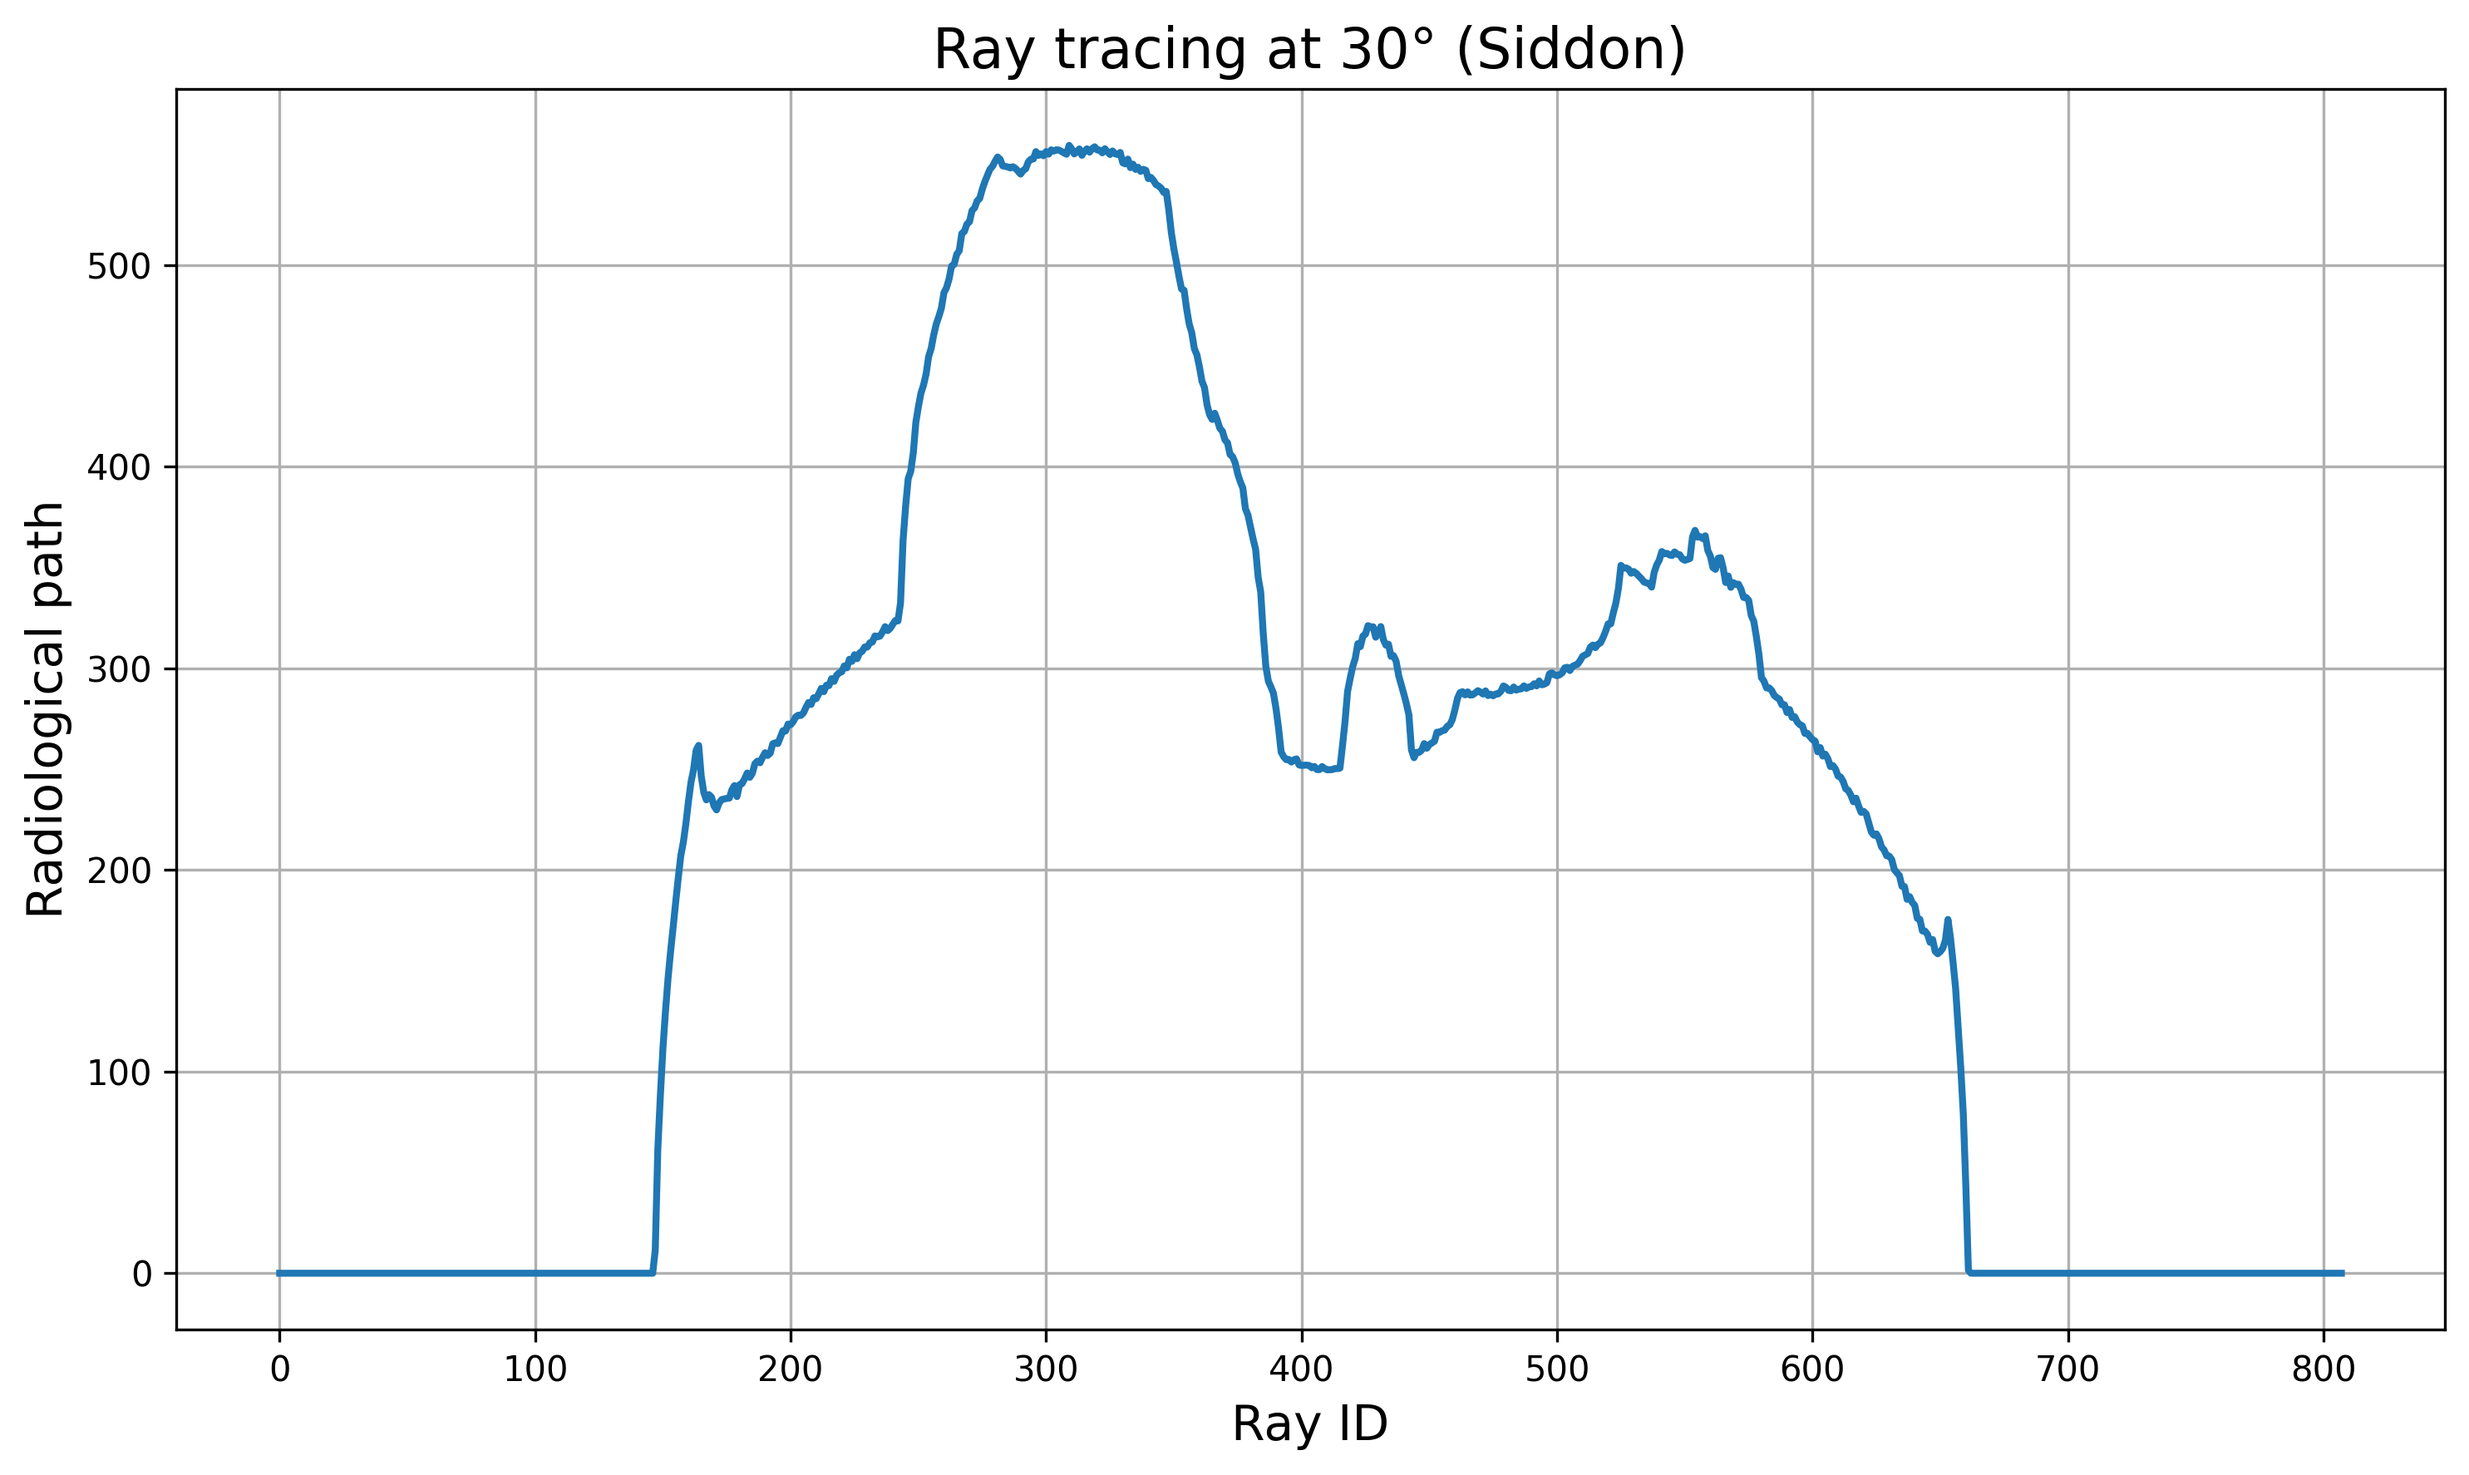
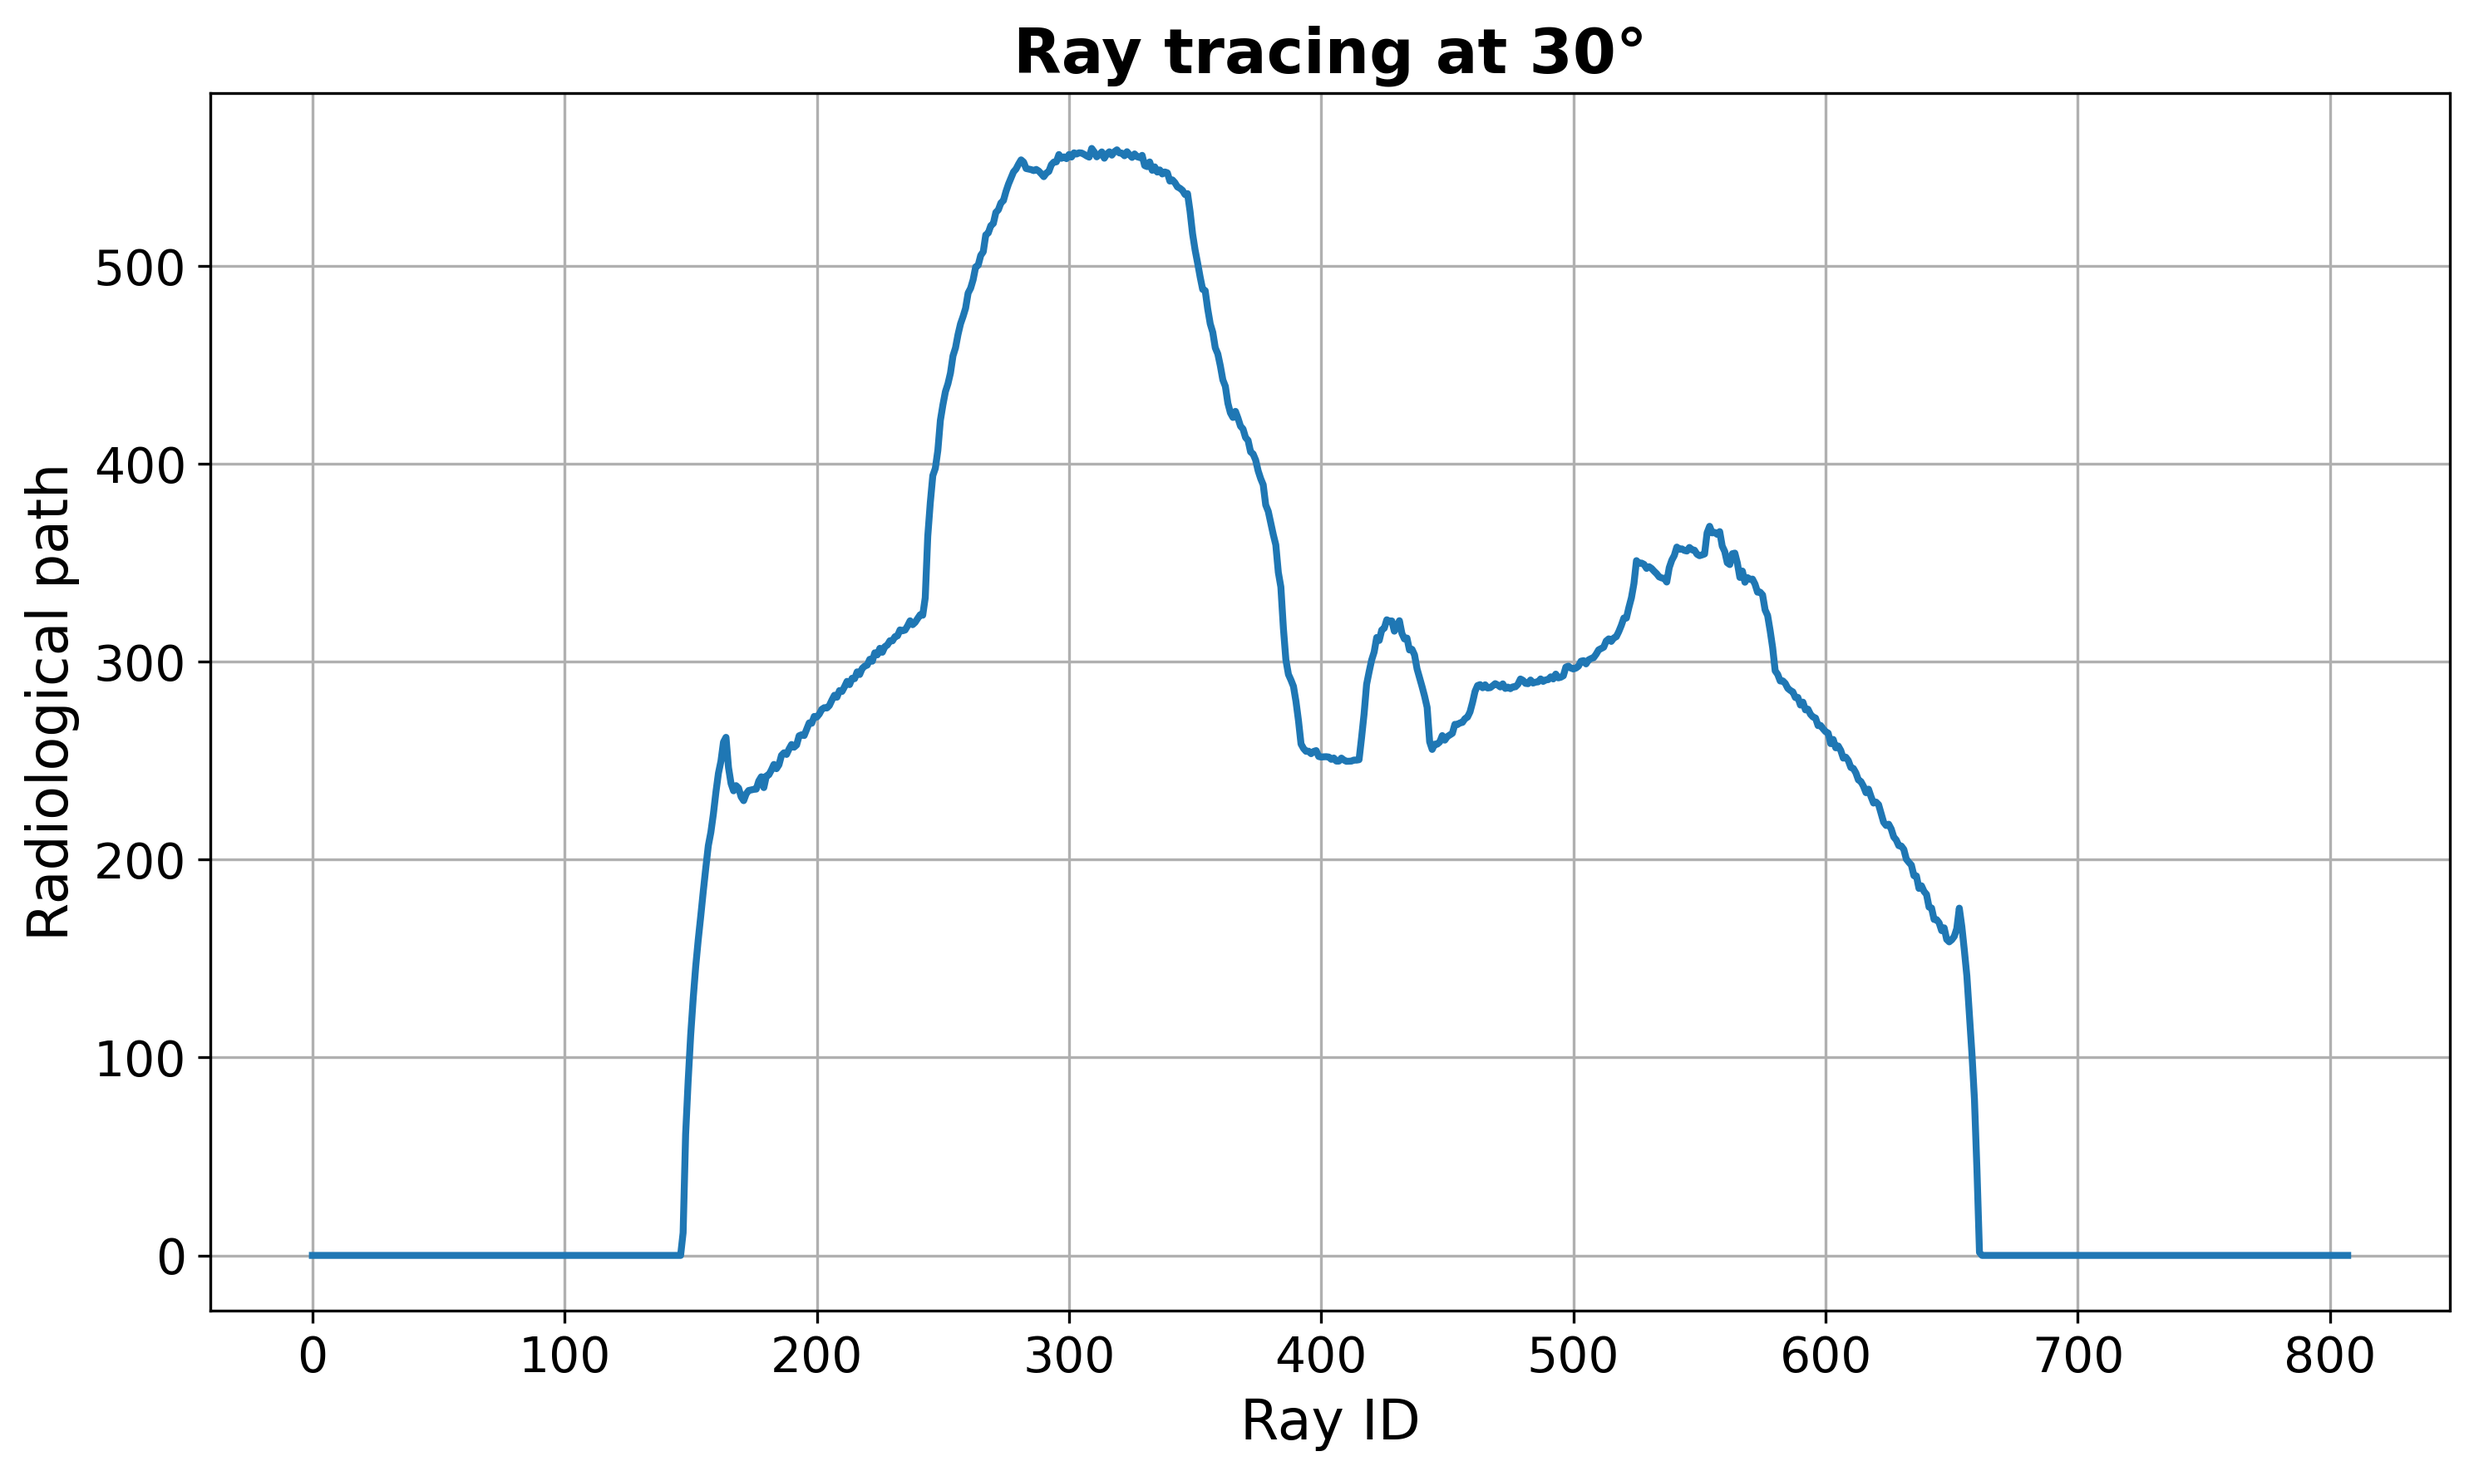
c

diff --git a/exercise5/ex5_30.py b/exercise5/ex5_30.py
@@ -105,9 +105,10 @@ for ray_idx, y0 in enumerate(y_starts):
 # Plot
 plt.figure(figsize=(10,6))
 plt.plot(radiological_path, lw=2)
-plt.xlabel("Ray ID", fontsize=14)
-plt.ylabel("Radiological path", fontsize=14)
-plt.title("Ray tracing at 30° (Siddon)", fontsize=16)
+plt.xlabel("Ray ID", fontsize=16)
+plt.ylabel("Radiological path", fontsize=16)
+plt.title("Ray tracing at 30°", fontsize=18, weight='bold')
 plt.grid()
+plt.tick_params(axis='both', which='major', labelsize=14)
 plt.tight_layout()
 plt.savefig("ray_tracing_30.png", dpi=300, bbox_inches="tight")
